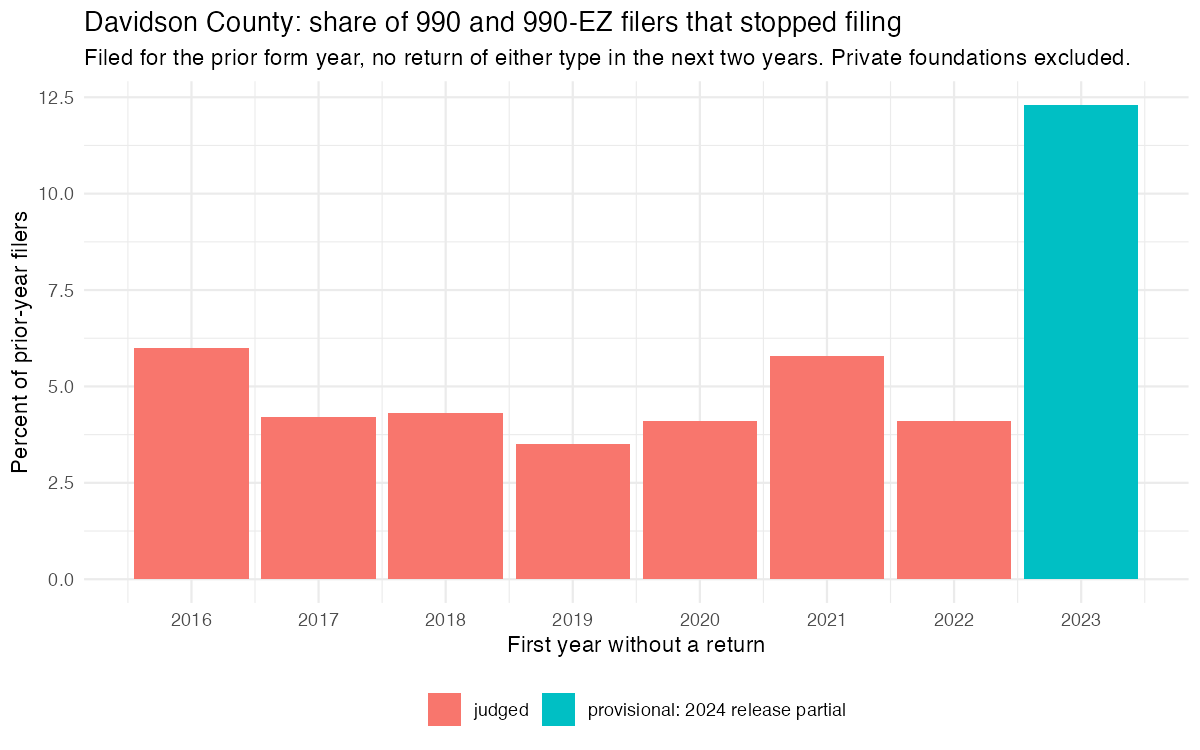
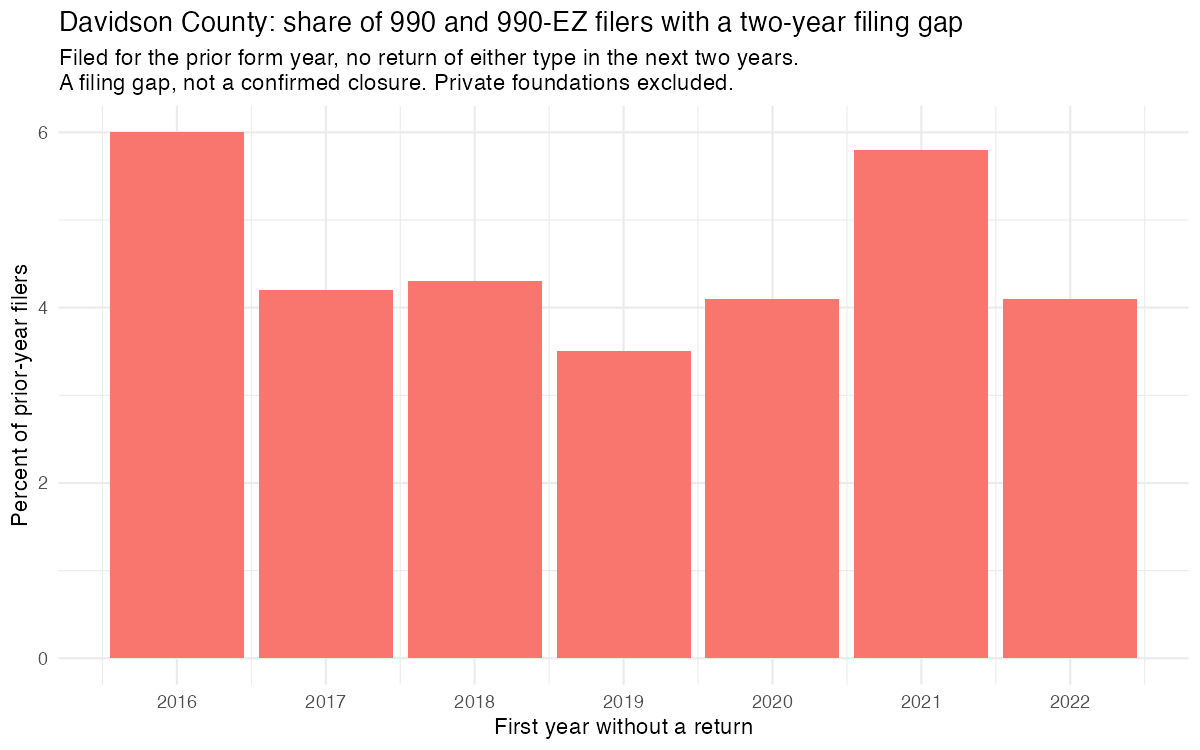
Nashville: fixes from the second-analyst review of round 2
Eighteen findings reproduced and logged in RESPONSE-REVIEW-CODEX-ROUND2.md.
Confirmed defects fixed: the Schedule I join dropped the recipient EIN so
recipients reached were undercounted (now 102 of the 114 listed
organizations registered in Davidson, with the 12 registered elsewhere
reported as out of scope); the EIN as filed now takes precedence over the
provisional name match; 990-PF amounts are reported as a single amount
rather than as cash; the hospital and university flag adds two
institutions whose NTEE code is undefined; the provisional exit bar is off
the chart and the series is named a filing gap; a balanced-panel
sensitivity joins the workforce chart; e-file takes precedence over CORE
in the charts union; two status texts reworded. The checklist's coverage
note is corrected: the CORE 2024 release is partial for fiscal-year filers,
so the gap is one-way, not the symmetric figure stated in round 1.

diff --git a/requests/2026-10-nashville-msa/RESPONSE-REVIEW-CODEX-ROUND2.md b/requests/2026-10-nashville-msa/RESPONSE-REVIEW-CODEX-ROUND2.md
@@ -1,0 +1,31 @@
+# Response to the second-analyst review of round 2 (2026-10-29)
+
+A second analyst (Codex) reviewed the approach, code, findings and next
+steps against REVIEW-PROMPT terms set the same day. Eighteen findings. Each
+was reproduced from the data before acting. Accepted and fixed, accepted as
+wording, or not confirmed, with the evidence.
+
+| # | Finding | Checked | Disposition |
+|---|---|---|---|
+| 1 | Reviewer comments acknowledged but changes unimplemented; an uncommented brief is not approval | True: the changes are for the round 2 write-up, not yet drafted | Accepted. The write-up will carry each change; the three method questions go back to the reviewer explicitly with the draft rather than treated as approved. |
+| 2 | HOS/UNI by code misses a university with $243.7M expenses | Confirmed: Lipscomb University carries an undefined NTEE code; a second institution (Richmond, The American International University in London, Nashville office) likewise | Fixed in `explore-13-charts.R`: the flag is the code plus two EINs found by listing full-990 filers with undefined codes and expenses over $20M. Stated in the script and to be stated in the write-up: identification is by code with a hand-checked supplement, not exact. |
+| 3 | Coverage table should lead but cannot separate postcards from other unobserved returns | True: nothing on disk carries 990-N filings | Accepted as wording: the category is "no return seen (990-N postcard, late, or not filing; the releases do not say which)". |
+| 4 | Rows 14, 75, 110 need entity confirmation; row 21 differs between workbook and match file | Rows 14, 75, 110 were already marked medium or low and are in the note to the requester (14) or flagged in the sheet. Row 21 is identical in both files (UTF-8 accented characters; the difference is a reader encoding issue) | Accepted for 14, 75, 110 (no change). Not confirmed for 21. |
+| 5 | All 89 filled values are e-file; CORE adds no rows | True | No change. CORE stays as the cross-check. |
+| 6 | The period-month rule fails for short periods | Confirmed at a small rate: 25 of 6,997 CORE full-990 rows matched to an e-file row on EIN and expenses disagree, nearly all short periods | Mitigated: e-file (which carries the IRS form year) now takes precedence over CORE wherever both hold a filing in `explore-13` as it already did in `explore-14`; the rule applies only to CORE-only rows, and the caveat is recorded in the script header. |
+| 7 | Later recognition does not establish no 2023 return | True in principle | Fixed wording: "Recognized in 2024 or later; no tax year 2023 return seen". |
+| 8 | Full-990-only sheet is consistent with the ask | Agreed | No change. |
+| 9 | Coverage counts reproduce | Agreed | No change. |
+| 10 | Remove the provisional 12.3% bar; two-year gaps are filing interruptions, not exits | Agreed | Fixed: chart shows judged years only; title and subtitle now say "two-year filing gap" and "not a confirmed closure". The provisional row stays in the CSV, labelled. |
+| 11 | Median $340,177 (all) / $332,850 (excl. HOS/UNI); under-$1M share rounds to 71, not 72 | Confirmed; the 72 was from a run before zero-expense rows were dropped | Table regenerated; medians now $339k and $332k with the wider HOS/UNI flag. |
+| 12 | Grant share percentages reproduce; series rebounds in 2023; median organization-level share is zero 2021-2023 | Agreed | Write-up will say the aggregate share is dollar-weighted and that most filers report nothing on line 1e (the share-reporting column is already in the table). |
+| 13 | Employees fall 0.8% among consistent filers vs 5.9% in the changing population | Confirmed: 627 organizations present in both 2019 and 2023, employees -0.8%, real spending +7.7%; through 2022, 693 organizations, employees -2.8%, spending +4.0% | Fixed: sensitivity table added (`chart_f_balanced_sensitivity.csv`); the write-up will lead with the balanced figures. |
+| 14 | 85 Schedule I rows use provisional name matching, 11 overriding supplied EINs | Confirmed: 127 rows in the extract where the provisional match differs from a supplied nine-digit EIN | Fixed: the EIN as filed takes precedence; the provisional match applies only where no nine-digit EIN was supplied, and the route is labelled per row (74 provisional rows remain over five years). |
+| 15 | Individual flag and deduplication work; PF amounts are assigned wholesale to cash | Confirmed: 990-PF grants paid carry a single amount | Fixed: `amount_total` is the comparable column; cash and noncash are reported for Schedule I rows only; PF reported as a single amount. |
+| 16 | All 3,678 Schedule I hit rows lost the recipient identifier; recipients reached were undercounted; recipient geography exceeds Davidson | Confirmed: the join consumed the EIN column, so Schedule I recipients were NA and "reached" counted PF matches only | Fixed: identifier preserved with an assertion that none is missing. Scope applied: recipients are the 114 listed organizations registered in Davidson; the 12 registered elsewhere are reported as out of scope. Reached rises from 94 to 102 of 114; funders 233; top ten funders 70% of matched dollars. |
+| 17 | Corrected coverage: 883 e-file vs 652 CORE, all overlapping; 231 e-file-only; the symmetric 5-6% claim is wrong | Confirmed (883 / 649 / 0 CORE-only / 234 e-file-only in this reproduction; 197 of the e-file-only have their June-year return in CORE's period-end-2023 file, i.e. form 2022, and their form-2023 return is in the partial 2024 release) | Accepted: checklist.md corrected; explore-12's claim is to be restated as "the CORE 2024 release is partial for fiscal-year filers" when the write-up is drafted. |
+| 18 | Fix identifiers, scope, year handling, denominators and wording before the draft; reserve method choices for the reviewer | Agreed | Done above except the write-up itself. |
+
+Not changed on the second analyst's advice alone: the hand match decisions
+(finding 4) stay as recorded, with their confidence levels going to the
+requester for confirmation.

diff --git a/requests/2026-10-nashville-msa/checklist.md b/requests/2026-10-nashville-msa/checklist.md
@@ -55,9 +55,11 @@ and cite pinned vintages in the front matter from `_pins.csv`.
   e-file 2022. Found 2026-10-29 while filling the requester's list (36 of 86
   double-source rows disagreed until relabeled; zero after). The
   explore-12 coverage comparison (CORE vs e-file counts per tax year) did not
-  relabel and so overstates the two-way gaps for fiscal-year filers; rerun
-  it with the form-year relabeling before quoting the "each misses 5-6%"
-  figure again. Route to nccs-contracts: the CORE contract should state the
+  relabel. Rerun with the relabeling (2026-10-29, Davidson 501(c)(3) excl.
+  HOS/UNI, form year 2023): 883 e-file, 649 CORE, every CORE filing also in
+  e-file, 234 e-file-only, most of them fiscal-year filers whose form-2023
+  return falls in CORE's partial 2024 release. The gap is one-way, not the
+  "each misses 5-6%" stated in round 1; restate before reuse. Route to nccs-contracts: the CORE contract should state the
   tax-year definition.
 - Registry names can be abbreviated ("The Community Fdn Of Middle Tn",
   "Senior Citizens" for FiftyForward), so string-distance name matching
